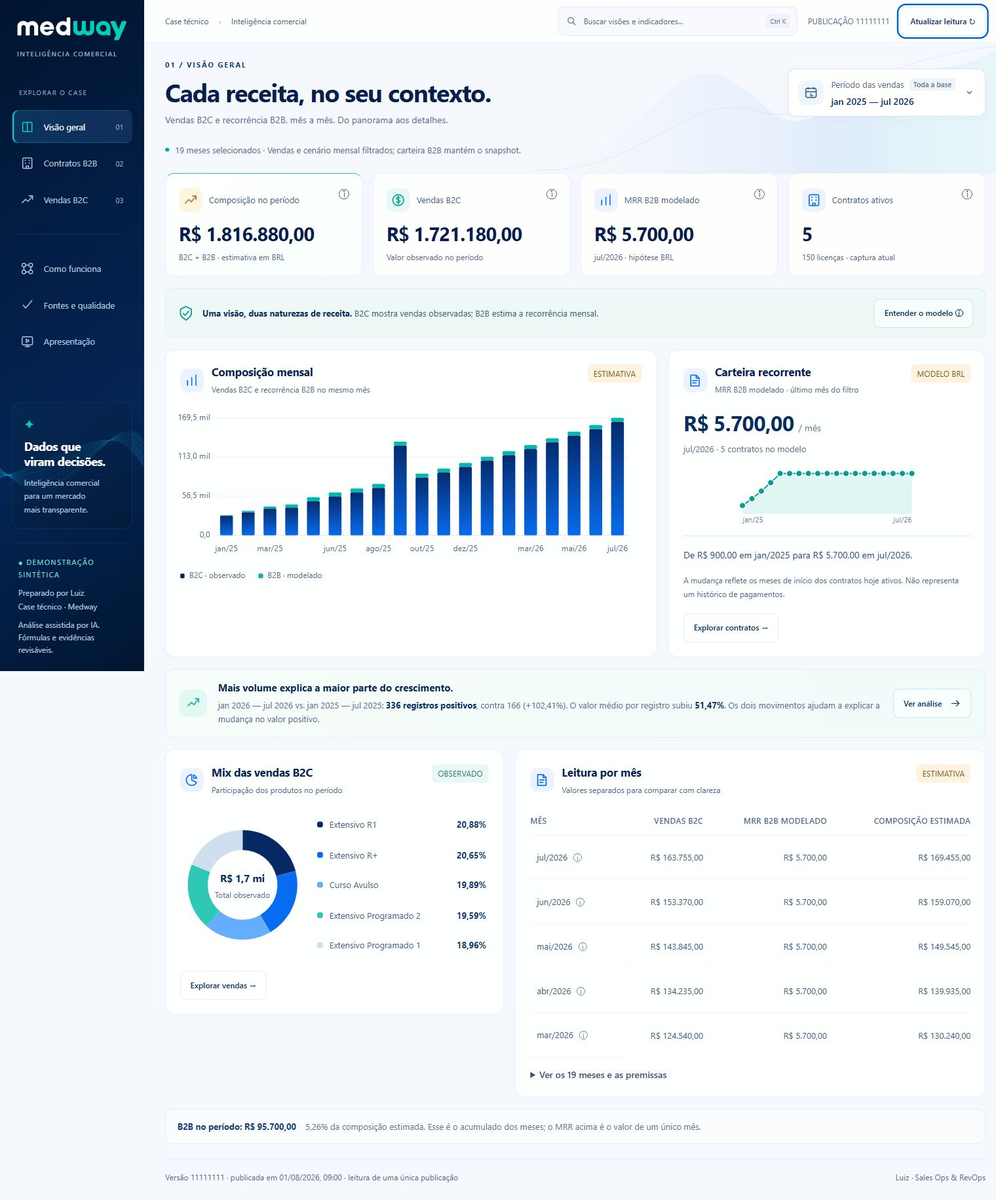
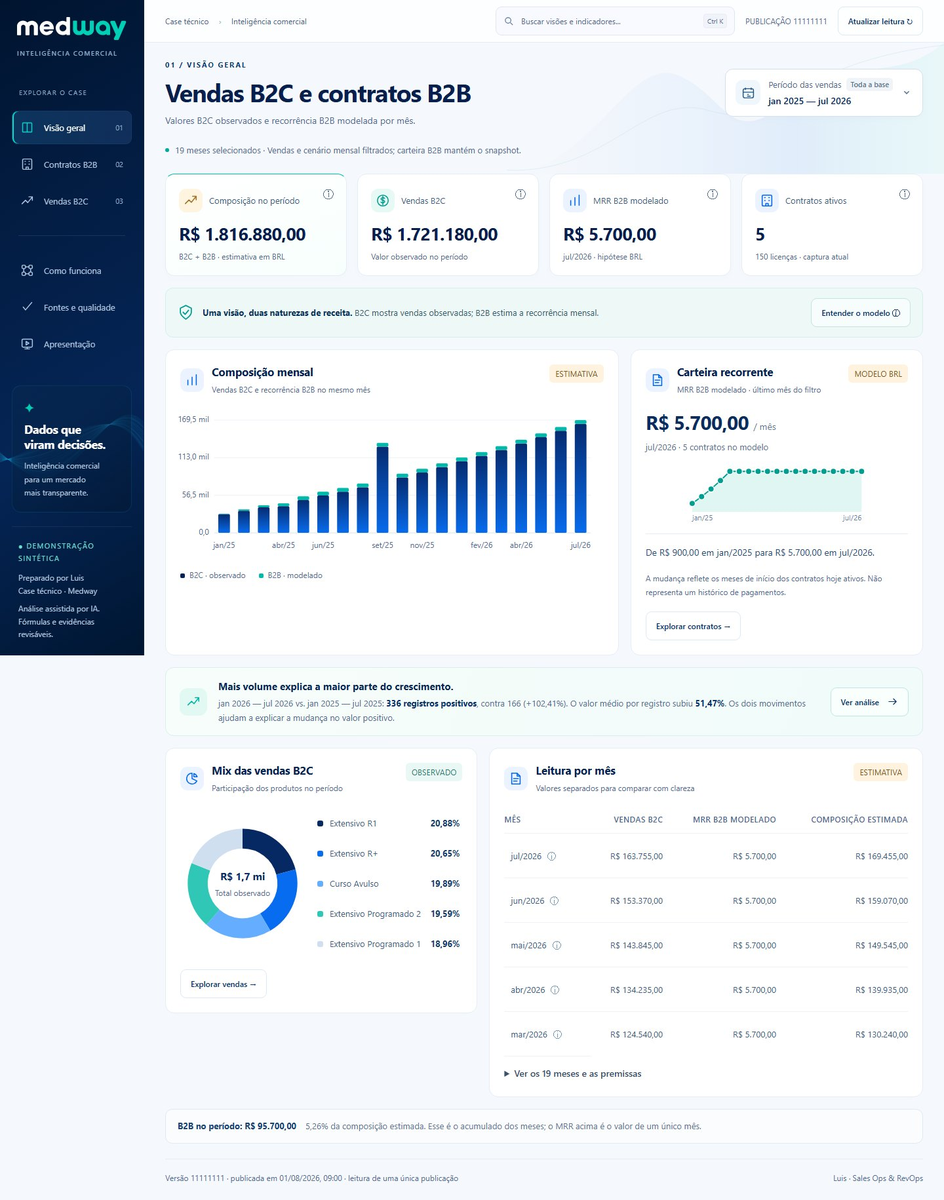
Use Luis and replace slogans with specific analysis text

diff --git a/dashboard/dist/app.js b/dashboard/dist/app.js
@@ -19,11 +19,11 @@ for(const [key,summary] of Object.entries(definitionSummaries)){defs[key]=[defs[
 defs.mrr=['MRR B2B modelado','Receita recorrente mensal estimada para o último mês do filtro. Não é a soma dos meses.','Soma do campo mensal dos contratos hoje ativos que já teriam iniciado no mês. Hipóteses: moeda BRL, mês cheio e coexistência dos IDs. O status atual é aplicado ao passado; a API não informa moeda nem histórico de status. Não equivale a pagamentos ou a MRR homologado.'];
 const pageNames={total:'Visão geral',b2b:'Contratos B2B',b2c:'Vendas B2C',architecture:'Como funciona',quality:'Fontes e qualidade',presentation:'Apresentação'};
 const headings = {
-  total: ['01 / VISÃO GERAL', 'Cada receita, no seu contexto.', 'Vendas B2C e recorrência B2B, mês a mês. Do panorama aos detalhes.'],
-  b2b: ['02 / CONTRATOS B2B', 'Uma leitura da carteira.', 'Contratos e licenças conforme o status observado na captura da API.'],
-  b2c: ['03 / VENDAS B2C', 'Da venda à decisão.', 'Valores, volume e mix comercial, com o mesmo período em toda a visão.'],
-  architecture: ['04 / ARQUITETURA', 'Cada etapa tem um propósito.', 'Clique no fluxo para entender o que acontece, como verificamos e o que falta operar.'],
-  quality: ['05 / FONTES & QUALIDADE', 'Confiança começa na origem.', 'Uma publicação rastreável, dados preservados e limites visíveis.'],
+  total: ['01 / VISÃO GERAL', 'Vendas B2C e contratos B2B', 'Valores B2C observados e recorrência B2B modelada por mês.'],
+  b2b: ['02 / CONTRATOS B2B', 'Contratos B2B', 'Contratos e licenças conforme o status observado na captura da API.'],
+  b2c: ['03 / VENDAS B2C', 'Vendas B2C', 'Valores, volume e mix comercial, com o mesmo período em toda a visão.'],
+  architecture: ['04 / ARQUITETURA', 'Fluxo de dados e validação', 'Clique no fluxo para entender o que acontece, como verificamos e o que falta operar.'],
+  quality: ['05 / FONTES & QUALIDADE', 'Fontes, versões e qualidade dos dados', 'Arquivos de origem, versão publicada e advertências de qualidade.'],
   presentation: ['06 / APRESENTAÇÃO', 'O case, em sequência.', 'Insights, decisões e solução. Use as setas para navegar.']
 };
 function esc(v) { return String(v ?? '').replace(/[&<>"']/g, x => ({'&':'&amp;','<':'&lt;','>':'&gt;','"':'&quot;',"'":'&#39;'}[x])); }
@@ -141,7 +141,7 @@ view.addEventListener('toggle',updateTableScrollHints,true);
 function comparison() {
   delete defs.growth;
   const series=data.views.b2c.series.month,keys=Object.keys(series).sort();
-  const unavailable=()=>insight('Cada recorte pede uma comparação equivalente.','Não há uma janela equivalente do ano anterior disponível para este período. Explore os valores observados sem inferir uma variação de crescimento.');
+  const unavailable=()=>insight('Sem comparação equivalente no ano anterior.','Não há uma janela equivalente do ano anterior disponível para este período. Explore os valores observados sem inferir uma variação de crescimento.');
   if(!keys.length)return unavailable();
   const pairs=comparisonPeriods(keys,$('#period').value);
   if(!pairs)return unavailable();
@@ -161,7 +161,7 @@ function renderB2C(){
   const entries=months(),r=sum(entries.map(([,x])=>x)),ticket=r.positiveCount?(r.positiveCents+BigInt(r.positiveCount)/2n)/BigInt(r.positiveCount):null;
   view.innerHTML=`<div class="metrics">${metric('Valor B2C observado',money(r.signedCents),'Soma com positivos, negativos e zero','signed',true)}${metric('Linhas com valor positivo',int(r.positiveCount),int(r.count)+' linhas no recorte','sales')}${metric('Ticket positivo',ticket===null?'—':money(ticket),'Média das linhas com valor maior que zero','ticket')}${metric('Meses no recorte',int(entries.length),entries.length?monthLabel(entries[0][0],true)+' — '+monthLabel(entries.at(-1)[0],true):'Sem registros','months')}</div><div class="grid-main">${panel('Evolução mensal','Valor observado · BRL · período selecionado',chart(entries.map(([m,x])=>[m,x.signedCents]))+'<div class="legend"><span>Valor B2C observado</span><span class="chart-cadence">Mensal</span></div>')}${panel('Participação dos canais','Ordenação por valor observado no mesmo recorte',rank(groups('channel')))}</div>${comparison()}<div class="two-columns b2c-bottom">${panel('Mix de produtos','Participação no valor observado · mesmo período',productMix(groups('product')))}${panel('Leitura por mês','Meses recentes · ticket das linhas positivas','<div class="monthly-preview">'+monthlyTable(entries.slice(-5).reverse())+'</div><div class="monthly-actions"><details><summary>Ver todos os '+entries.length+' meses</summary>'+monthlyTable(entries)+'</details><button class="button" id="export-months">Exportar CSV ↓</button></div>')}</div><p class="note">${int(r.negativeCount)} linha(s) negativa(s) e ${int(r.zeroCount)} linha(s) de valor zero no recorte. Ocorrências iguais preservadas; a fonte não informa ID de venda. Valores não comprovam caixa, margem ou reconhecimento contábil.</p>`;
 }
-function renderB2B(){const b=data.views.b2b,active=b.byStatus.ativo??{count:0,licenses:0,sumMonthlyMinorUnits:'0'},all=Object.values(b.byStatus).reduce((n,x)=>n+x.licenses,0);view.innerHTML=`<div class="metrics">${metric('Contratos na captura',int(b.count),'Snapshot · status atual','contracts',true)}${metric('Contratos ativos',int(active.count),'Status observado, sem trajetória histórica','contracts')}${metric('Licenças em contratos ativos',int(active.licenses),int(all)+' licenças em todos os status','licenses')}${metric('Campo mensal · ativos',decimal(active.sumMonthlyMinorUnits),'Unidades da fonte · moeda não informada','monthly')}</div><div class="two-columns">${panel('Composição por status','Cada ID é mantido conforme o snapshot',table(['Status atual','Contratos','Licenças','Campo mensal'],Object.entries(b.byStatus).map(([status,x])=>[status,int(x.count),int(x.licenses),decimal(x.sumMonthlyMinorUnits)]))+'<p class="note">O rótulo churn é um status atual. Uma taxa histórica de churn exige eventos e uma base elegível por período.</p>')}${panel('Por plano','Todos os status · soma do campo mensal em unidades da fonte',rank(b.byPlan??{},'units'))}</div>${insight('A carteira ativa concentra a recorrência potencial.','O campo mensal dos contratos ativos mostra o tamanho da recorrência na captura. A Visão geral apresenta sua evolução estimada; a confirmação de moeda e vigência permite homologar o MRR.')}<div class="two-columns">${panel('Distribuição regional','Região contratual informada na API · todos os status',table(['Região','Contratos','Licenças'],Object.entries(b.byRegion??{}).map(([name,x])=>[name,int(x.count),int(x.licenses)])))}${panel('O que esta captura permite afirmar','Observação e interpretação permanecem separadas','<div class="note-box">Podemos contar contratos, licenças e somar o campo mensal por status, plano e região. Não podemos reconstruir status histórico, pagamentos, utilização de licenças ou uma relação de substituição entre IDs.</div><p class="note">Data factual de referência do servidor: não fornecida. O horário da importação local está disponível em Fontes e qualidade.</p>')}</div>`;}
+function renderB2B(){const b=data.views.b2b,active=b.byStatus.ativo??{count:0,licenses:0,sumMonthlyMinorUnits:'0'},all=Object.values(b.byStatus).reduce((n,x)=>n+x.licenses,0);view.innerHTML=`<div class="metrics">${metric('Contratos na captura',int(b.count),'Snapshot · status atual','contracts',true)}${metric('Contratos ativos',int(active.count),'Status observado, sem trajetória histórica','contracts')}${metric('Licenças em contratos ativos',int(active.licenses),int(all)+' licenças em todos os status','licenses')}${metric('Campo mensal · ativos',decimal(active.sumMonthlyMinorUnits),'Unidades da fonte · moeda não informada','monthly')}</div><div class="two-columns">${panel('Composição por status','Cada ID é mantido conforme o snapshot',table(['Status atual','Contratos','Licenças','Campo mensal'],Object.entries(b.byStatus).map(([status,x])=>[status,int(x.count),int(x.licenses),decimal(x.sumMonthlyMinorUnits)]))+'<p class="note">O rótulo churn é um status atual. Uma taxa histórica de churn exige eventos e uma base elegível por período.</p>')}${panel('Por plano','Todos os status · soma do campo mensal em unidades da fonte',rank(b.byPlan??{},'units'))}</div>${insight('Valor mensal dos contratos ativos','O campo mensal dos contratos ativos mostra o tamanho da recorrência na captura. A Visão geral apresenta sua evolução estimada; a confirmação de moeda e vigência permite homologar o MRR.')}<div class="two-columns">${panel('Distribuição regional','Região contratual informada na API · todos os status',table(['Região','Contratos','Licenças'],Object.entries(b.byRegion??{}).map(([name,x])=>[name,int(x.count),int(x.licenses)])))}${panel('O que esta captura permite afirmar','Observação e interpretação permanecem separadas','<div class="note-box">Podemos contar contratos, licenças e somar o campo mensal por status, plano e região. Não podemos reconstruir status histórico, pagamentos, utilização de licenças ou uma relação de substituição entre IDs.</div><p class="note">Data factual de referência do servidor: não fornecida. O horário da importação local está disponível em Fontes e qualidade.</p>')}</div>`;}
 function overviewSummary(records){
   const rows=[...records].sort((a,b)=>a.month.localeCompare(b.month));
   return {rows,last:rows.at(-1)??null,b2b:rows.reduce((n,r)=>n+BigInt(r.b2bSumMonthlyMinorUnits),0n),combined:rows.reduce((n,r)=>n+BigInt(r.combinedAssumedBrlCents),0n)};
@@ -188,7 +188,7 @@ function renderTotal(){
 }
 function renderArchitecture(){if(!architecture){view.innerHTML='<div class="loading">Preparando o fluxo…</div>';return;}const node=architecture.nodes.find(n=>n.id===selectedNode)??architecture.nodes[0];view.innerHTML=`<div class="architecture-intro"><p>Esta edição usa fontes inteiramente sintéticas geradas no processo local. Os parsers, as regras financeiras, o DTO e a interface são executáveis; o backend protegido do portal tem configuração separada.</p><span class="badge">ESTADO DA IMPLEMENTAÇÃO</span></div><div class="flow">${architecture.nodes.map(n=>`<button class="flow-node ${n.id===node.id?'selected':''}" data-node="${esc(n.id)}" aria-pressed="${n.id===node.id}"><span class="flow-index">${esc(n.step)} / ${esc(n.group)}</span><span class="node-arrow">↗</span><strong>${esc(n.title)}</strong><span class="flow-state"><span class="status-dot ${n.status==='pending'?'pending':''}"></span>${esc(n.statusLabel)}</span></button>`).join('')}</div><article class="panel flow-detail"><span class="eyebrow">ETAPA ${esc(node.step)}</span><h2 style="margin-top:12px">${esc(node.title)}</h2><p>${esc(node.explanation)}</p><h3>O que garante confiança</h3><ul>${node.guarantees.map(g=>`<li>${esc(g)}</li>`).join('')}</ul><details><summary>Ver detalhes técnicos e limites</summary><p>${esc(node.technical)}</p><div class="code-ref">${node.references.map(esc).join(' · ')}</div></details></article><p class="note">Este fluxo descreve a demonstração pública local. Não há coleta remota, automação, banco externo ou telemetria nesta edição. O portal protegido usa uma configuração privada separada.</p>`;}
 function renderQuality(){const q=data.quality??{},s=data.manifest.sources??data.views.metadata.sources??[],b2c=q.b2c??{},b2b=q.b2b??{};view.innerHTML=`<div class="source-list">${s.map(source=>panel(source.sourceId==='b2c-csv'?'Fonte B2C · CSV sintético':'Fonte B2B · envelope sintético da API','Fonte sintética reproduzível por conteúdo',`<p class="source-info">Importação local: <strong>${esc(dateTime(source.localReadAt))}</strong><br>Referência factual da origem: <strong>${esc(source.sourceAsOf?'Informada':'Não informada')}</strong><br>Modo: <strong>${esc(source.mode??'não informado')}</strong></p><div class="source-hash">SHA-256<br>${esc(source.sha256)}</div>`,'PRESERVADO','observed')).join('')}</div><div class="two-columns">${panel('Qualidade B2C','Advertências ficam visíveis; linhas não são apagadas',`<div class="quality-row"><span>Linhas recebidas</span><strong>${int(b2c.rowCount??data.views.b2c.count)}</strong></div><div class="quality-row"><span>Advertências do tratamento</span><strong>${int(b2c.warningCount??0)}</strong></div><div class="quality-row"><span>Valores negativos</span><strong>${int(data.views.b2c.negativeCount)}</strong></div><div class="quality-row"><span>Valores zero</span><strong>${int(data.views.b2c.zeroCount)}</strong></div><p class="note">Linhas iguais são preservadas. Campos condicionais ausentes geram advertências, com evidência privada fora do navegador. Identidades de pessoas e linhas brutas não são enviadas à interface.</p>`)}${panel('Qualidade B2B','Completude e identidade do snapshot',`<div class="quality-row"><span>Contratos recebidos</span><strong>${int(b2b.rowCount??data.views.b2b.count)}</strong></div><div class="quality-row"><span>Moeda informada</span><strong>Não</strong></div><div class="quality-row"><span>Data factual de referência</span><strong>Não</strong></div><div class="quality-row"><span>Contrato repetido</span><strong>Impede publicar</strong></div><p class="note">A captura deve começar no offset zero e seu total deve coincidir com os registros recebidos. Uma coleta parcial não substitui a publicação válida.</p>`)}</div>${panel('Publicação e rastreabilidade','O navegador recebe agregados de uma única versão',`<div class="source-info">Versão: <strong>${esc(data.versionId)}</strong><br>Publicada em: <strong>${esc(dateTime(data.manifest.publishedAt))}</strong><br>Modo de execução: <strong>${esc(data.manifest.executionMode)}</strong><br>Fórmulas: <strong>${esc(data.manifest.viewFormulaVersion)}</strong></div><div class="note-box">Os horários acima documentam a leitura e a publicação local. Não indicam que a API ou a planilha foram atualizadas nessa data. A base B2C cobre janeiro de 2025 a julho de 2026; B2B não fornece source_as_of.</div><details><summary>Reuso e declaração de IA</summary><p>Esta edição pública contém os parsers, fórmulas, interface e exemplos de segurança escritos para o case. Os componentes privados de ingestão não fazem parte desta distribuição. Os dados são fictícios e determinísticos. Desenvolvimento assistido por IA; fórmulas e testes disponíveis para revisão.</p></details>`,'VERSÃO FIXADA','observed')}`;}
-function render(){if(!data)return;hideDataReadout();updatePeriodUI();document.body.classList.toggle('presentation-page',page==='presentation');document.body.classList.toggle('presentation-mode',page==='presentation'&&presentationFocus);const h=headings[page];$('#mobile-page-name').textContent=pageNames[page];$('#eyebrow').textContent=h[0];$('#page-title').innerHTML=page==='b2c'?'Da venda à <span>decisão.</span>':esc(h[1]);$('#page-description').textContent=h[2];$('#period-control').hidden=!['b2c','total'].includes(page);document.querySelectorAll('[data-page]').forEach(b=>{b.classList.toggle('active',b.dataset.page===page);b.setAttribute('aria-current',b.dataset.page===page?'page':'false');});({b2c:renderB2C,b2b:renderB2B,total:renderTotal,architecture:renderArchitecture,quality:renderQuality,presentation:renderPresentation})[page]();updateTableScrollHints();$('#footer-version').textContent='Versão '+data.versionId.slice(0,8)+' · publicada em '+dateTime(data.manifest.publishedAt)+' · leitura de uma única publicação';}
+function render(){if(!data)return;hideDataReadout();updatePeriodUI();document.body.classList.toggle('presentation-page',page==='presentation');document.body.classList.toggle('presentation-mode',page==='presentation'&&presentationFocus);const h=headings[page];$('#mobile-page-name').textContent=pageNames[page];$('#eyebrow').textContent=h[0];$('#page-title').innerHTML=page==='b2c'?'Vendas <span>B2C</span>':esc(h[1]);$('#page-description').textContent=h[2];$('#period-control').hidden=!['b2c','total'].includes(page);document.querySelectorAll('[data-page]').forEach(b=>{b.classList.toggle('active',b.dataset.page===page);b.setAttribute('aria-current',b.dataset.page===page?'page':'false');});({b2c:renderB2C,b2b:renderB2B,total:renderTotal,architecture:renderArchitecture,quality:renderQuality,presentation:renderPresentation})[page]();updateTableScrollHints();$('#footer-version').textContent='Versão '+data.versionId.slice(0,8)+' · publicada em '+dateTime(data.manifest.publishedAt)+' · leitura de uma única publicação';}
 function status(message,degraded=false){const c=$('#connection');c.textContent=message;c.classList.toggle('degraded',degraded);}
 async function refresh(){if(loading)return;loading=true;$('#refresh').disabled=true;try{const r=await fetch('/api/dashboard',{cache:'no-store',signal:AbortSignal.timeout(15000)});if(r.status===401&&document.getElementById('logout')){location.assign('/');return;}if(!r.ok)throw new Error('READ_FAILED');const next=await r.json();if(!next.versionId||!next.views?.b2c)throw new Error('SCHEMA_INVALID');data=next;$('#version-label').textContent='PUBLICAÇÃO '+data.versionId.slice(0,8);status('DEMONSTRAÇÃO · dados 100% sintéticos. Atualizar leitura consulta a amostra local; não faz coleta externa.',false);if(data.attempt?.status && !['completed','replayed'].includes(data.attempt.status))status('Última tentativa: '+data.attempt.status+'. Exibindo a versão publicada em '+dateTime(data.manifest.publishedAt)+'.',true);render();}catch{status(data?'Leitura indisponível agora. A tela mantém a versão carregada em memória; os dados não foram atualizados.':'Não foi possível ler a publicação. Tente atualizar a leitura após conferir o estado da publicação.',true);if(!data)view.innerHTML='<div class="error-panel">A publicação não está disponível para leitura. A demonstração sintética não foi carregada. Use “Atualizar leitura” após conferir a publicação.</div>';}finally{loading=false;$('#refresh').disabled=false;}}
 document.addEventListener('click',e=>{const nav=e.target.closest('[data-page]');if(nav){page=nav.dataset.page;location.hash=page;render();if(innerWidth<=800&&nav.closest('.sidebar')){setMobileNavigation(false);if(page!=='presentation')$('#toggle-navigation').focus({preventScroll:true});else $('.slide-title')?.focus({preventScroll:true});}}const node=e.target.closest('[data-node]');if(node){selectedNode=node.dataset.node;renderArchitecture();}const m=e.target.closest('[data-definition]');if(m){const d=defs[m.dataset.definition];if(d){$('#metric-title').textContent=d[0];$('#metric-description').innerHTML=`<p>${esc(d[1])}</p>${d[2]?`<details><summary>Definição e evidência</summary><p>${esc(d[2])}</p></details>`:''}`;$('#metric-version').textContent='Fórmula '+(data?.manifest?.viewFormulaVersion??'carregando')+' · versão '+(data?.versionId??'carregando');$('#metric-dialog').showModal();}}if(e.target.closest('#export-months')){const text=monthlyCsv(months());const a=document.createElement('a'),url=URL.createObjectURL(new Blob([text],{type:'text/csv;charset=utf-8'}));a.href=url;const range=periodSelection($('#period').value,Object.keys(data.views.b2c.series.month));a.download='medway-b2c-'+range.start+'_'+range.end+'-'+data.versionId.slice(0,8)+'.csv';a.click();setTimeout(()=>URL.revokeObjectURL(url),1000);}});

diff --git a/dashboard/dist/styles.css b/dashboard/dist/styles.css
@@ -2,7 +2,7 @@
 *{box-sizing:border-box}body{margin:0;display:flex;min-height:100vh}button,select{font:inherit}button{cursor:pointer}button:focus-visible,a:focus-visible,select:focus-visible,summary:focus-visible{outline:3px solid #6494e9;outline-offset:4px}a{color:inherit;text-decoration:none}.sidebar{width:240px;flex:0 0 240px;background:var(--nav);color:#c9d3e1;padding:32px 22px;display:flex;flex-direction:column;position:fixed;inset:0 auto 0 0;z-index:5}.brand{display:flex;align-items:center;gap:13px;color:#fff;font-size:27px;font-weight:750;letter-spacing:-1px;margin-bottom:54px}.brand-icon{display:flex;align-items:center;font-size:33px;letter-spacing:-4px}.brand-icon span{color:#01cfb5;font-size:23px;align-self:flex-start;letter-spacing:0}.brand-sub{display:block;letter-spacing:2.2px;font-size:8px;font-weight:550;margin-top:7px;color:#9cabc0}.nav-label{font-size:9px;letter-spacing:1.8px;color:#8292ab;margin:0 14px 17px}.nav-button{border:0;background:none;color:#b9c7d9;width:100%;padding:15px 13px;border-radius:9px;font-size:13px;text-align:left;display:flex;gap:13px;align-items:center;margin:5px 0}.nav-button.active{background:#2c3a4f;color:white;box-shadow:inset 3px 0 #01cfb5}.nav-button:hover{background:#25354a}.nav-symbol{font-size:19px;width:22px}.nav-number{margin-left:auto;font-size:10px;color:#91a3bd}.nav-divider{border-top:1px solid #324055;margin:27px 10px 21px}.sidebar-foot{margin-top:auto;padding:45px 12px 0}.private-tag{font-size:8px;letter-spacing:1.4px;color:#8fbeb7}.sidebar-foot p{font-size:12px;line-height:1.8;color:#c3cdda}.tiny{font-size:10px;line-height:1.6;color:#93a2b7}main{margin-left:240px;width:calc(100% - 240px);min-width:0}.topbar{height:77px;padding:0 42px;display:flex;justify-content:space-between;align-items:center;background:#fff;border-bottom:1px solid var(--line);font-size:12px;color:#6c7c8e;gap:15px}.slash{color:#b7c1cc;margin:0 12px}.topbar-right{display:flex;align-items:center;gap:20px;font-size:10px}.button{border:1px solid var(--line);border-radius:7px;background:white;padding:9px 13px;color:#526377;font-size:11px}.button:hover{border-color:#abb6c4}.button:disabled{opacity:.5;cursor:wait}.connection{padding:11px 42px;background:#edf4f5;border-bottom:1px solid #dce7e7;color:#486564;font-size:11px;line-height:1.6}.connection.degraded{background:#fff2dc;color:#805813;border-color:#edd8b5}.content{padding:37px 42px 22px;max-width:1640px;margin:auto}.page-heading{display:flex;justify-content:space-between;align-items:flex-end;gap:24px;margin-bottom:30px}.eyebrow{font-size:9px;font-weight:700;letter-spacing:1.9px;color:var(--red)}h1{font-size:32px;line-height:1.15;font-weight:700;letter-spacing:-1.1px;margin:12px 0 11px}h2{font-size:16px;letter-spacing:-.25px;margin:0}h3{font-size:13px;margin:0}.page-heading p{color:var(--muted);font-size:12px;line-height:1.65;margin:0}.period-control{min-width:192px}.period-control label{font-size:8px;letter-spacing:1.4px;color:#7a8799;font-weight:650;display:block;margin:0 0 9px}select{padding:10px 13px;border:1px solid #d6dde5;border-radius:8px;background:#fff;color:#3c4d61;font-size:11px;width:100%;max-width:240px}.metrics{display:grid;grid-template-columns:repeat(4,minmax(0,1fr));gap:17px;margin-bottom:23px}.metric{background:var(--card);border:1px solid var(--line);padding:22px 21px 20px;border-radius:var(--radius);position:relative;min-height:148px}.metric.accent{border-top:3px solid var(--red);padding-top:20px}.metric-label{font-size:10px;line-height:1.5;color:#68778b;display:block;padding-right:18px}.metric-value{display:block;font-size:25px;line-height:1.2;letter-spacing:-.8px;font-weight:700;margin:15px 0 9px;overflow-wrap:anywhere}.metric-foot{display:block;font-size:9px;line-height:1.7;color:#8590a0}.metric-info{position:absolute;top:19px;right:15px;background:none;border:0;color:#98a5b4;font-size:12px;padding:5px}.grid-main{display:grid;grid-template-columns:minmax(0,1.65fr) minmax(0,1fr);gap:23px;margin-bottom:23px}.panel{background:#fff;border:1px solid var(--line);border-radius:var(--radius);padding:24px 25px;min-width:0}.panel-header{display:flex;justify-content:space-between;align-items:center;gap:14px;margin-bottom:16px}.panel-subtitle{font-size:10px;line-height:1.7;color:var(--muted);margin:7px 0 0}.badge{font-size:8px;text-transform:uppercase;letter-spacing:1px;padding:6px 8px;border-radius:5px;background:#f1f3f6;color:#778697;white-space:nowrap}.badge.observed{background:#eaf6f0;color:#378466}.badge.scenario{background:#fff1da;color:#9b681b}.chart{width:100%;height:215px;display:block;overflow:visible}.chart text{font-size:10px;fill:#8a96a6;font-family:inherit}.chart .grid-line{stroke:#edf0f4;stroke-width:1}.chart .bar{fill:#00205b}.chart .bar:hover{fill:#07ab95}.chart .b2b-bar{fill:#94aabe}.chart .axis{stroke:#e4e8ee;stroke-width:1}.legend{display:flex;gap:20px;font-size:9px;color:#8090a0;margin-top:12px}.legend span:before{content:"";display:inline-block;width:7px;height:7px;background:var(--red);margin-right:7px;border-radius:2px}.legend .blue:before{background:#94aabe}.rank{margin-top:24px}.rank-row{margin:19px 0}.rank-top{display:flex;justify-content:space-between;gap:10px;font-size:11px;margin-bottom:9px}.rank-name{overflow-wrap:anywhere}.rank-value{white-space:nowrap;font-weight:600;color:#46576d}.rank-track{height:6px;background:#f1f3f6;border-radius:5px;overflow:hidden}.rank-fill{height:100%;background:#00205b;border-radius:5px}.rank-row:nth-child(2) .rank-fill{background:#1862bc}.rank-row:nth-child(3) .rank-fill{background:#5e89bc}.rank-row:nth-child(4) .rank-fill{background:#a6bad8}.insight{display:flex;align-items:flex-start;gap:16px;background:#fff;border:1px solid var(--line);border-radius:var(--radius);padding:21px 24px;margin-bottom:23px}.insight-icon{width:35px;height:35px;border-radius:10px;background:#fff0f2;color:var(--red);display:grid;place-items:center;flex-shrink:0;font-size:18px}.insight p{font-size:11px;line-height:1.8;color:#68788c;margin:6px 0 0}.insight strong{color:#334459}.detail-table{border-collapse:collapse;width:100%;font-size:11px;margin-top:17px}.detail-table th{font-size:8px;letter-spacing:1px;text-transform:uppercase;color:#8290a1;text-align:left;padding:12px 0;border-bottom:1px solid var(--line);font-weight:600}.detail-table td{padding:14px 0;border-bottom:1px solid #edf0f4;color:#526174}.detail-table tr:last-child td{border-bottom:0}.detail-table th:not(:first-child),.detail-table td:not(:first-child){text-align:right;padding-left:10px}.table-wrap{overflow:auto}.two-columns{display:grid;grid-template-columns:1fr 1fr;gap:23px;margin-bottom:23px}.note{font-size:10px;line-height:1.85;color:#76869a;margin:17px 0 0}.note-box{background:#f8f9fb;border-radius:9px;padding:15px 17px;font-size:11px;line-height:1.8;color:#63748b;margin-top:18px}.note-box.amber{background:#fff5e5;color:#8c6428}.page-footer{display:flex;justify-content:space-between;gap:20px;margin-top:32px;padding-top:18px;border-top:1px solid var(--line);font-size:9px;color:#8a96a6;line-height:1.7}.loading{padding:60px;text-align:center;color:var(--muted);font-size:13px}.status-dot{display:inline-block;width:7px;height:7px;border-radius:50%;background:#2c9580;margin-right:6px}.status-dot.pending{background:#d3a254}.architecture-intro{display:flex;justify-content:space-between;align-items:center;gap:25px;margin-bottom:24px}.architecture-intro p{max-width:700px;font-size:12px;line-height:1.85;color:#6d7f92;margin:0}.flow{display:grid;grid-template-columns:repeat(3,1fr);gap:16px;margin-bottom:23px}.flow-node{border:1px solid var(--line);background:#fff;text-align:left;padding:22px;border-radius:13px;min-height:135px;position:relative;color:var(--ink)}.flow-node:hover,.flow-node.selected{border-color:var(--red);box-shadow:0 3px 12px #00205b0b}.flow-index{font-size:9px;letter-spacing:1px;color:var(--red);font-weight:700;display:block;margin-bottom:12px}.flow-node strong{font-size:13px;display:block;margin-bottom:9px}.flow-node .flow-state{font-size:9px;color:#7a899d}.flow-node .node-arrow{position:absolute;right:18px;top:20px;color:#a0acbb}.flow-detail h2{margin-bottom:10px}.flow-detail p{font-size:12px;line-height:1.85;color:#61738a}.flow-detail ul{font-size:11px;line-height:1.85;padding-left:18px;color:#6c7d91}.code-ref{font:10px Consolas,monospace;color:#8796a8;overflow-wrap:anywhere;background:#f6f8fa;padding:12px;border-radius:7px;margin-top:17px}.source-list{display:grid;grid-template-columns:1fr 1fr;gap:23px;margin-bottom:23px}.source-hash{font:10px Consolas,monospace;word-break:break-all;line-height:1.8;background:#f7f9fb;border-radius:8px;padding:13px;margin-top:15px;color:#79899f}.source-info{font-size:11px;line-height:1.85;color:#6e7f92}.quality-row{display:flex;justify-content:space-between;gap:20px;padding:15px 0;border-bottom:1px solid #edf0f4;font-size:11px;color:#607289}.quality-row strong{font-size:12px;color:#32485f}.quality-row:last-child{border:0}.error-panel{padding:30px;background:#fff2e1;border:1px solid #e9d0ab;border-radius:12px;color:#83581b;font-size:12px;line-height:1.9}dialog{border:1px solid var(--line);border-radius:18px;max-width:580px;width:calc(100% - 40px);padding:29px;color:var(--ink);box-shadow:0 25px 80px #182b4340}dialog::backdrop{background:#15223d6b;backdrop-filter:blur(3px)}.dialog-head{display:flex;justify-content:space-between;align-items:center;margin-bottom:18px}.dialog-head button{border:0;background:#f1f3f6;border-radius:50%;width:28px;height:28px;font-size:20px;color:#718398}dialog h2{font-size:20px;line-height:1.5;margin-bottom:17px}#metric-description{font-size:12px;line-height:1.85;color:#64758b}.dialog-version{font:10px Consolas,monospace;color:#8c9aad;margin-top:23px;overflow-wrap:anywhere}details{margin-top:16px;font-size:11px;color:#667991;line-height:1.85}summary{cursor:pointer;color:#3a506b;font-weight:600}
 .two-columns{align-items:start}#export-months{margin-top:17px}
 
-/* Private portal entrance — reference composition supplied by Luiz. */
+/* Private portal entrance — reference composition supplied by Luis. */
 .login-page{position:relative;isolation:isolate;display:grid;place-items:center;min-height:100vh;min-height:100svh;padding:40px 24px;color:#08265f;background:radial-gradient(ellipse at 100% -12%,#35cbbdcc 0,transparent 40%),radial-gradient(ellipse at 95% 93%,#00a5ad66 0,transparent 37%),radial-gradient(ellipse at 48% 42%,#1256a17a 0,transparent 54%),linear-gradient(118deg,#00122f 0%,#05275c 49%,#004760 100%)}
 .login-atmosphere{position:absolute;inset:0;overflow:hidden;z-index:-1;pointer-events:none}
 .login-atmosphere:after{content:"";position:absolute;inset:0;background:radial-gradient(ellipse at 48% 78%,#1264b432,transparent 42%)}
@@ -75,7 +75,7 @@
 .deck-chart-scroll{display:none}
 @media(max-width:760px){.deck-svg{min-width:740px}.deck-chart-scroll{display:block;font-size:11px;color:#7084a0;margin:10px 0}}
 
-/* Dashboard visual — references supplied by Luiz, 06 Oct 2026. */
+/* Dashboard visual — references supplied by Luis, 06 Oct 2026. */
 .dashboard-page{color:#082252;background:#f5f8fc}
 .dashboard-page .sidebar{width:220px;padding:26px 18px 23px;background:linear-gradient(150deg,#00142f,#052556 64%,#001631);overflow:hidden;isolation:isolate;border-right:1px solid #ffffff0d}
 .dashboard-page main{margin-left:220px;width:calc(100% - 220px)}

diff --git a/dashboard/dist/index.html b/dashboard/dist/index.html
@@ -22,7 +22,7 @@
     </nav>
     <svg class="sidebar-wave" aria-hidden="true" viewBox="0 0 260 260" fill="none"><path d="M-60 40C70 175 80 180 150 105S225 40 295 170" stroke="#14d7d2" stroke-opacity="0.11"/><path d="M-60 44C70 173 80 177 150 104S225 42 295 172" stroke="#1681c4" stroke-opacity="0.13"/><path d="M-60 48C70 171 80 174 150 103S225 44 295 174" stroke="#1681c4" stroke-opacity="0.15"/><path d="M-60 52C70 169 80 171 150 102S225 46 295 176" stroke="#1681c4" stroke-opacity="0.16999999999999998"/><path d="M-60 56C70 167 80 168 150 101S225 48 295 178" stroke="#1681c4" stroke-opacity="0.19"/><path d="M-60 60C70 165 80 165 150 100S225 50 295 180" stroke="#14d7d2" stroke-opacity="0.21000000000000002"/><path d="M-60 64C70 163 80 162 150 99S225 52 295 182" stroke="#1681c4" stroke-opacity="0.22999999999999998"/><path d="M-60 68C70 161 80 159 150 98S225 54 295 184" stroke="#1681c4" stroke-opacity="0.11"/><path d="M-60 72C70 159 80 156 150 97S225 56 295 186" stroke="#1681c4" stroke-opacity="0.13"/><path d="M-60 76C70 157 80 153 150 96S225 58 295 188" stroke="#1681c4" stroke-opacity="0.15"/><path d="M-60 80C70 155 80 150 150 95S225 60 295 190" stroke="#14d7d2" stroke-opacity="0.16999999999999998"/><path d="M-60 84C70 153 80 147 150 94S225 62 295 192" stroke="#1681c4" stroke-opacity="0.19"/><path d="M-60 88C70 151 80 144 150 93S225 64 295 194" stroke="#1681c4" stroke-opacity="0.21000000000000002"/><path d="M-60 92C70 149 80 141 150 92S225 66 295 196" stroke="#1681c4" stroke-opacity="0.22999999999999998"/><path d="M-60 96C70 147 80 138 150 91S225 68 295 198" stroke="#1681c4" stroke-opacity="0.11"/><path d="M-60 100C70 145 80 135 150 90S225 70 295 200" stroke="#14d7d2" stroke-opacity="0.13"/><path d="M-60 104C70 143 80 132 150 89S225 72 295 202" stroke="#1681c4" stroke-opacity="0.15"/><path d="M-60 108C70 141 80 129 150 88S225 74 295 204" stroke="#1681c4" stroke-opacity="0.16999999999999998"/><path d="M-60 112C70 139 80 126 150 87S225 76 295 206" stroke="#1681c4" stroke-opacity="0.19"/><path d="M-60 116C70 137 80 123 150 86S225 78 295 208" stroke="#1681c4" stroke-opacity="0.21000000000000002"/><path d="M-60 120C70 135 80 120 150 85S225 80 295 210" stroke="#14d7d2" stroke-opacity="0.22999999999999998"/><path d="M-60 124C70 133 80 117 150 84S225 82 295 212" stroke="#1681c4" stroke-opacity="0.11"/><path d="M-60 128C70 131 80 114 150 83S225 84 295 214" stroke="#1681c4" stroke-opacity="0.13"/><path d="M-60 132C70 129 80 111 150 82S225 86 295 216" stroke="#1681c4" stroke-opacity="0.15"/><path d="M-60 136C70 127 80 108 150 81S225 88 295 218" stroke="#1681c4" stroke-opacity="0.16999999999999998"/><path d="M-60 140C70 125 80 105 150 80S225 90 295 220" stroke="#14d7d2" stroke-opacity="0.19"/><path d="M-60 144C70 123 80 102 150 79S225 92 295 222" stroke="#1681c4" stroke-opacity="0.21000000000000002"/><path d="M-60 148C70 121 80 99 150 78S225 94 295 224" stroke="#1681c4" stroke-opacity="0.22999999999999998"/><path d="M-60 152C70 119 80 96 150 77S225 96 295 226" stroke="#1681c4" stroke-opacity="0.11"/><path d="M-60 156C70 117 80 93 150 76S225 98 295 228" stroke="#1681c4" stroke-opacity="0.13"/></svg>
     <div class="sidebar-message"><span class="sidebar-message-spark">✦</span><strong>Dados que<br>viram decisões.</strong><p>Inteligência comercial<br>para um mercado<br>mais transparente.</p></div>
-    <div class="sidebar-foot"><span class="private-tag">● DEMONSTRAÇÃO SINTÉTICA</span><p>Preparado por Luiz<br>Case técnico · Medway</p><span class="tiny">Análise assistida por IA.<br>Fórmulas e evidências revisáveis.</span></div>
+    <div class="sidebar-foot"><span class="private-tag">● DEMONSTRAÇÃO SINTÉTICA</span><p>Preparado por Luis<br>Case técnico · Medway</p><span class="tiny">Análise assistida por IA.<br>Fórmulas e evidências revisáveis.</span></div>
   </aside>
   <main>
     <header class="topbar"><span class="breadcrumb">Case técnico <span class="slash">›</span> <span>Inteligência comercial</span></span><button class="case-search" id="open-search" aria-label="Buscar visões e indicadores" aria-haspopup="dialog"><svg aria-hidden="true" viewBox="0 0 24 24" fill="none" stroke="currentColor" stroke-width="1.7"><circle cx="10" cy="10" r="6"/><path d="m15 15 5 5"/></svg><span>Buscar visões e indicadores...</span><kbd>Ctrl K</kbd></button><div class="topbar-right"><span id="version-label">Carregando versão…</span><button id="refresh" class="button subtle">Atualizar leitura ↻</button></div></header>
@@ -32,7 +32,7 @@
       <section class="page-heading"><div><span class="eyebrow" id="eyebrow">01 / VISÃO GERAL</span><h1 id="page-title">Cada receita, no seu contexto.</h1><p id="page-description">Uma leitura rastreável da performance comercial.</p></div><div class="period-control" id="period-control"><input type="hidden" id="period" value="all"><button id="open-period" class="period-trigger" aria-haspopup="dialog" aria-controls="period-dialog" aria-expanded="false" disabled><span class="period-calendar" aria-hidden="true"><svg viewBox="0 0 24 24" fill="none" stroke="currentColor" stroke-width="1.7"><rect x="3" y="5" width="18" height="16" rx="3"/><path d="M7 3v4m10-4v4M3 11h18m-11 4h3m-3 3h6"/></svg></span><span class="period-trigger-copy"><span class="period-trigger-label">Período das vendas <span id="period-kind">Toda a base</span></span><strong id="period-summary">Carregando período…</strong></span><svg class="period-chevron" aria-hidden="true" viewBox="0 0 20 20" fill="none" stroke="currentColor" stroke-width="1.7"><path d="m6 8 4 4 4-4"/></svg></button></div></section>
       <div class="filter-context" id="filter-context" hidden><span class="filter-context-copy" id="filter-context-copy"></span><button id="clear-period" class="filter-clear" hidden>Limpar período <span aria-hidden="true">×</span></button></div>
       <section id="view" aria-live="polite"><div class="loading">Preparando a leitura dos dados…</div></section>
-      <footer class="page-footer"><span id="footer-version">Uma versão por leitura. Valores calculados em unidades inteiras.</span><span>Luiz · Sales Ops & RevOps</span></footer>
+      <footer class="page-footer"><span id="footer-version">Cada leitura usa uma versão dos dados. Valores calculados em unidades inteiras.</span><span>Luis · Sales Ops & RevOps</span></footer>
     </div>
   </main>
   <dialog id="period-dialog" aria-labelledby="period-title" aria-describedby="period-help"><div class="period-dialog-head"><div><span class="period-dialog-eyebrow">RECORTE DA ANÁLISE</span><h2 id="period-title">Selecionar período</h2></div><button id="close-period" aria-label="Fechar seleção de período">×</button></div><p id="period-help">Escolha um atalho ou personalize o intervalo.</p><div class="period-presets" id="period-presets" aria-label="Atalhos de período"></div><div class="period-custom"><div class="period-section-heading"><span>Intervalo personalizado</span><span>Mensal</span></div><div class="period-fields"><label for="period-start">Mês inicial<select id="period-start"></select></label><span class="period-fields-arrow" aria-hidden="true">→</span><label for="period-end">Mês final<select id="period-end"></select></label></div><p class="period-error" id="period-error" role="status" hidden></p><p class="period-draft-summary" id="period-draft-summary" aria-live="polite"></p></div><p class="period-scope-note">Os meses inicial e final são incluídos. O filtro acompanha os indicadores, gráficos, tabelas e CSV de vendas; a carteira B2B mantém seu snapshot.</p><div class="period-dialog-actions"><button id="cancel-period" class="button">Cancelar</button><button id="apply-period" class="button period-apply">Aplicar período <span aria-hidden="true">→</span></button></div></dialog>

diff --git a/dashboard/dist/presentation.js b/dashboard/dist/presentation.js
@@ -1,11 +1,11 @@
 const esc=value=>String(value??'').replace(/[&<>"']/g,c=>({'&':'&amp;','<':'&lt;','>':'&gt;','"':'&quot;',"'":'&#39;'}[c]));
 export function buildPresentation(dto) {
   return {versionId:dto.versionId,slides:[
-    {title:'Da informação à decisão.',lead:'Uma demonstração pública, reproduzível e inteiramente sintética.',text:'O dashboard permite explorar volume, valor e mix comercial sem divulgar dados privados do case.'},
-    {title:'Definições antes dos números.',lead:'Cada indicador explicita seu universo.',text:'O saldo observado inclui positivos, negativos e zero. Ticket positivo divide a soma positiva pela quantidade de linhas positivas. Uma linha não equivale necessariamente a um cliente único.'},
-    {title:'Consolidar com critério.',lead:'B2C e B2B têm bases temporais e monetárias distintas.',text:'B2C é um fluxo em BRL. B2B é um snapshot de status atual com moeda não informada. Um cenário mensal explicita suas hipóteses; o total financeiro oficial permanece indisponível.'},
-    {title:'Uma leitura rastreável.',lead:'Fontes → normalização → projeções → DTO → dashboard.',text:'Os parsers validam a entrada, os cálculos usam centavos inteiros e o DTO entrega somente agregados. Os testes públicos exercitam as fórmulas e os limites de segurança do portal.'},
-    {title:'Explore o código e a análise.',lead:'Esta apresentação explica a edição pública.',text:'A apresentação completa e os resultados reais ficam no portal protegido. Esta edição não representa uma implantação completa de ingestão nem comprova operação permanente.'}
+    {title:'Dashboard comercial com dados sintéticos',lead:'Uma demonstração pública, reproduzível e inteiramente sintética.',text:'O dashboard permite explorar volume, valor e mix comercial sem divulgar dados privados do case.'},
+    {title:'Como os indicadores são calculados',lead:'Cada indicador explicita seu universo.',text:'O saldo observado inclui positivos, negativos e zero. Ticket positivo divide a soma positiva pela quantidade de linhas positivas. Uma linha não equivale necessariamente a um cliente único.'},
+    {title:'B2C observado e cenário B2B',lead:'B2C e B2B têm bases temporais e monetárias distintas.',text:'B2C é um fluxo em BRL. B2B é um snapshot de status atual com moeda não informada. Um cenário mensal explicita suas hipóteses; o total financeiro oficial permanece indisponível.'},
+    {title:'Fluxo de dados e validação',lead:'Fontes → normalização → projeções → DTO → dashboard.',text:'Os parsers validam a entrada, os cálculos usam centavos inteiros e o DTO entrega somente agregados. Os testes públicos exercitam as fórmulas e os limites de segurança do portal.'},
+    {title:'Código público e resultados no portal',lead:'Esta apresentação explica a edição pública.',text:'A apresentação completa e os resultados reais ficam no portal protegido. Esta edição não representa uma implantação completa de ingestão nem comprova operação permanente.'}
   ]};
 }
 export function presentationMarkup(deck,index=0) {

diff --git a/README.md b/README.md
@@ -1,6 +1,6 @@
 # Medway · Inteligência comercial
 
-Dashboard de vendas B2C, contratos B2B e composição mensal com premissas explícitas. Desenvolvido por Luiz para o case técnico de Sales Ops / RevOps, com assistência de IA na análise, implementação e revisão.
+Dashboard de vendas B2C, contratos B2B e composição mensal com premissas explícitas. Desenvolvido por Luis para o case técnico de Sales Ops / RevOps, com assistência de IA na análise, implementação e revisão.
 
 **[Abrir o portal do case](https://medway-inteligencia.luisz-braghin.workers.dev/)** · **[Abrir a apresentação completa](https://medway-inteligencia.luisz-braghin.workers.dev/#presentation)**
 
